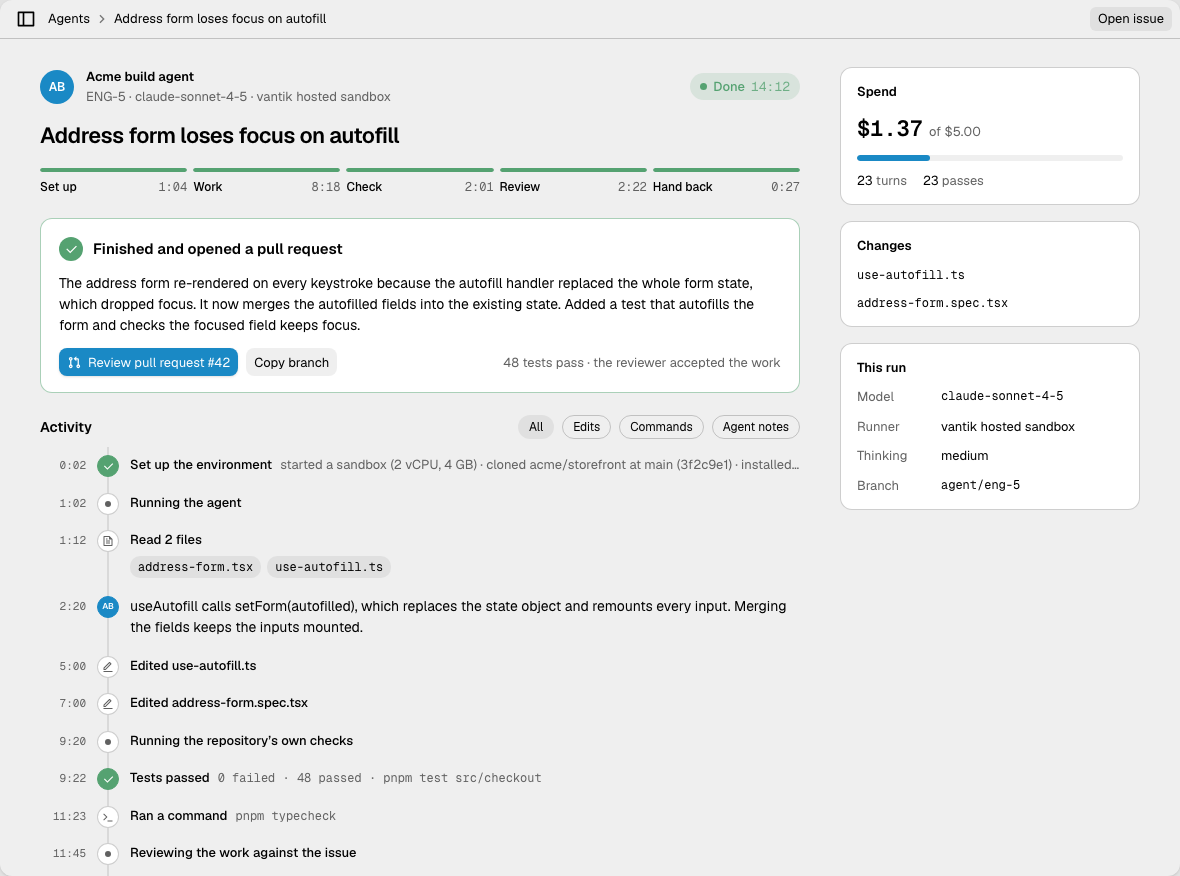
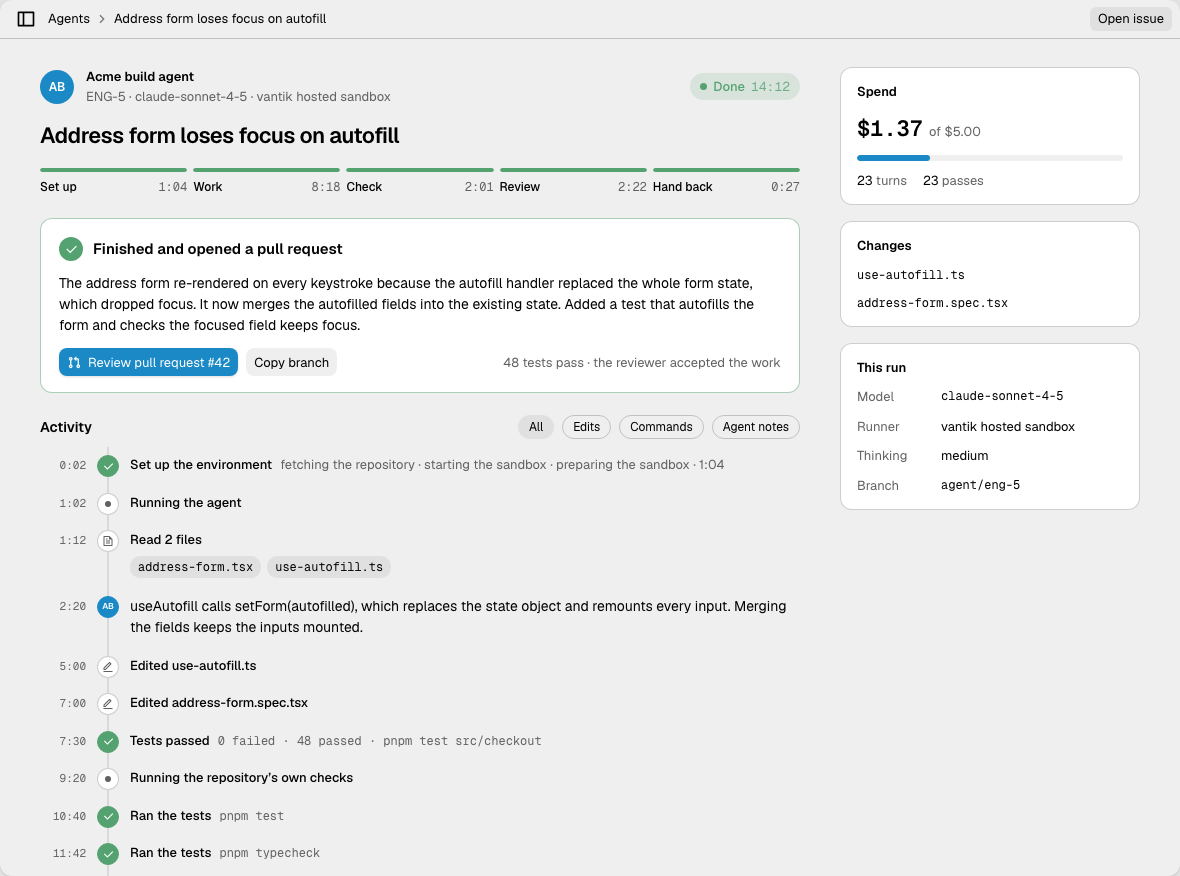
Show agent runs as the executor writes them (ENG-237)
The seeded runs still carried events the hosted executor never writes:
setup lines about vCPUs and installs, check results as start/finish
pairs with test counts and output, a lint check as a plain command, and
a live run with no spend and a model id it would only get on finishing.
The setup lines are now the executor's three notes, each repository
check is one test event with only its result, the live run carries its
metered cost and turns, the unfinished runs have no model id, and the
rejected run records its clean-up event.

The activity table now tells a check Vantik ran ("Ran the tests") from
a test the agent ran, and says a failed check shows no output. Both
pages now say that a hosted run records a branch only when it ends Done
or Needs a human, so on a hosted run Reject is the only clean-up. The
page also states the 40-character minimum and when Runs use appears.

diff --git a/apps/e2e/screenshots/seed-agents.ts b/apps/e2e/screenshots/seed-agents.ts
@@ -12,7 +12,11 @@ import type { Database } from './db';
  * a reader needs to recognise.
  *
  * Every run is one the hosted executor can produce: its failure category, its
- * events and its counts are the ones that executor writes. A finished run
+ * events and its counts are the ones that executor writes. Its own notes and
+ * check results are written as it writes them (one event per check, with no
+ * counts or output); the agent's tool calls as pi-events.ts maps them. The
+ * model id is set only on a run that finished, and a live run carries the
+ * cost and turns its meter has written so far. A finished run
  * carries its turn count in iterationCount too, because the executor writes it
  * there when the run ends, and the Spend card shows that field as passes.
  *
@@ -128,7 +132,13 @@ export async function seedAgents(
   const runningStart = clockAt - 6 * MINUTE - 40_000;
   const runningRunId = await run(
     issues.running,
-    { status: 'RUNNING', startedAt: runningStart, iterationCount: 0 },
+    {
+      status: 'RUNNING',
+      startedAt: runningStart,
+      iterationCount: 0,
+      modelId: null,
+      result: { costUsd: 0.94, turns: 17 },
+    },
     [
       ...setup(),
       [62, 'implement', 'Running the agent'],
@@ -174,7 +184,6 @@ export async function seedAgents(
       [250, 'implement', 'Edit src/payments/webhooks.spec.ts', { kind: 'write', ref: 'w3', target: 'src/payments/webhooks.spec.ts' }],
       [251, 'implement', 'Edit src/payments/webhooks.spec.ts', { ref: 'w3', ok: true, added: 34, removed: 0 }],
       [298, 'verify', 'Running the repository’s own checks'],
-      [300, 'verify', 'pnpm test src/payments', { kind: 'test', ref: 't1', command: 'pnpm test src/payments' }],
     ],
   );
 
@@ -229,11 +238,11 @@ export async function seedAgents(
       [301, 'implement', 'Edit src/checkout/use-autofill.ts', { ref: 'w1', ok: true, added: 9, removed: 7 }],
       [420, 'implement', 'Edit src/checkout/address-form.spec.tsx', { kind: 'write', ref: 'w2', target: 'src/checkout/address-form.spec.tsx' }],
       [421, 'implement', 'Edit src/checkout/address-form.spec.tsx', { ref: 'w2', ok: true, added: 29, removed: 0 }],
+      [450, 'implement', 'bash: pnpm test src/checkout', { kind: 'test', ref: 'a1', command: 'pnpm test src/checkout' }],
+      [528, 'implement', 'Tests passed: 48', { kind: 'test', ref: 'a1', ok: true, passed: 48, failed: 0 }],
       [560, 'verify', 'Running the repository’s own checks'],
-      [562, 'verify', 'pnpm test src/checkout', { kind: 'test', ref: 't1', command: 'pnpm test src/checkout' }],
-      [640, 'verify', 'pnpm test src/checkout', { ref: 't1', ok: true, exit: 0, passed: 48, failed: 0 }],
-      [683, 'verify', 'pnpm typecheck', { kind: 'bash', ref: 'b1', command: 'pnpm typecheck' }],
-      [702, 'verify', 'pnpm typecheck', { ref: 'b1', ok: true, exit: 0 }],
+      [640, 'verify', 'Tests: passed', { kind: 'test', command: 'pnpm test', ok: true, exit: 0 }],
+      [702, 'verify', 'Typecheck: passed', { kind: 'test', command: 'pnpm typecheck', ok: true, exit: 0 }],
       [705, 'review', 'Reviewing the work against the issue'],
       [825, 'review', 'The reviewer accepted the work'],
       [830, 'report', 'Pushing the branch'],
@@ -289,11 +298,16 @@ export async function seedAgents(
       [300, 'implement', 'Created docs/analytics/checkout.md', { kind: 'write', ref: 'w1', target: 'docs/analytics/checkout.md' }],
       [301, 'implement', 'Created docs/analytics/checkout.md', { ref: 'w1', ok: true, added: 96, removed: 0 }],
       [400, 'verify', 'Running the repository’s own checks'],
-      [402, 'verify', 'pnpm lint', { kind: 'bash', ref: 'b1', command: 'pnpm lint' }],
-      [460, 'verify', 'pnpm lint', { ref: 'b1', ok: true, exit: 0 }],
+      [460, 'verify', 'Lint: passed', { kind: 'test', command: 'pnpm lint', ok: true, exit: 0 }],
       [462, 'review', 'Reviewing the work against the issue'],
       [550, 'review', 'The reviewer found 0 thing(s) to fix'],
       [552, 'report', 'Pushing the branch'],
+      [
+        540 + 3 * 60 * 60,
+        'cleanup',
+        'Cleaned up after the run. Closed the pull request. Deleted the branch.',
+        { cleanup: { pullRequest: 'closed', branch: 'deleted' } },
+      ],
     ],
   );
 
@@ -305,6 +319,7 @@ export async function seedAgents(
     {
       status: 'FAILED',
       failure: 'ENVIRONMENT_SETUP_FAILED',
+      modelId: null,
       error:
         'pnpm install --frozen-lockfile\n ERR_PNPM_OUTDATED_LOCKFILE  Cannot install with "frozen-lockfile" because pnpm-lock.yaml is not up to date with package.json',
       startedAt: failedStart,
@@ -312,8 +327,9 @@ export async function seedAgents(
       result: { egressDenied: 0 },
     },
     [
-      [2, 'setup', 'Started a sandbox (2 vCPU, 4 GB)'],
-      [9, 'setup', 'Cloned acme/storefront at main (3f2c9e1)'],
+      [2, 'setup', 'Fetching the repository'],
+      [9, 'setup', 'Starting the sandbox'],
+      [40, 'setup', 'Preparing the sandbox'],
     ],
   );
 
@@ -364,46 +380,21 @@ export async function seedAgents(
       [300, 'implement', 'Created src/catalog/stock-badge.tsx', { kind: 'write', ref: 'w1', target: 'src/catalog/stock-badge.tsx' }],
       [301, 'implement', 'Created src/catalog/stock-badge.tsx', { ref: 'w1', ok: true, added: 41, removed: 0 }],
       [396, 'verify', 'Running the repository’s own checks'],
-      [398, 'verify', 'pnpm test src/catalog', { kind: 'test', ref: 't1', command: 'pnpm test src/catalog' }],
-      [
-        494,
-        'verify',
-        'pnpm test src/catalog',
-        {
-          ref: 't1',
-          ok: false,
-          exit: 1,
-          passed: 48,
-          failed: 3,
-          output:
-            'FAIL src/catalog/stock.spec.ts\n  ✕ hides the badge when stock is unknown\n  ✕ rounds stock above 99 to 99+\n  ✕ shows the badge for stock of 0\n\nTests: 3 failed, 48 passed, 51 total',
-        },
-        'ERROR',
-      ],
+      [494, 'verify', 'Tests: failed', { kind: 'test', command: 'pnpm test', ok: false, exit: 1 }, 'ERROR'],
       [496, 'review', 'Reviewing the work against the issue'],
       [588, 'review', 'The reviewer found 2 thing(s) to fix'],
       [590, 'revise-2', 'Fixing 2 finding(s) from the review'],
+      [700, 'revise-2', 'Edit src/catalog/stock-badge.tsx', { kind: 'write', ref: 'w2', target: 'src/catalog/stock-badge.tsx' }],
+      [701, 'revise-2', 'Edit src/catalog/stock-badge.tsx', { ref: 'w2', ok: true, added: 6, removed: 2 }],
       [830, 'verify-2', 'Running the repository’s own checks'],
+      [923, 'verify-2', 'Tests: failed', { kind: 'test', command: 'pnpm test', ok: false, exit: 1 }, 'ERROR'],
       [925, 'review-2', 'Reviewing the work against the issue'],
       [1013, 'review-2', 'The reviewer found 2 thing(s) to fix'],
       [1015, 'revise-3', 'Fixing 2 finding(s) from the review'],
+      [1120, 'revise-3', 'Edit src/catalog/stock.ts', { kind: 'write', ref: 'w3', target: 'src/catalog/stock.ts' }],
+      [1121, 'revise-3', 'Edit src/catalog/stock.ts', { ref: 'w3', ok: true, added: 17, removed: 10 }],
       [1235, 'verify-3', 'Running the repository’s own checks'],
-      [1237, 'verify-3', 'pnpm test src/catalog', { kind: 'test', ref: 't3', command: 'pnpm test src/catalog' }],
-      [
-        1330,
-        'verify-3',
-        'pnpm test src/catalog',
-        {
-          ref: 't3',
-          ok: false,
-          exit: 1,
-          passed: 49,
-          failed: 2,
-          output:
-            'FAIL src/catalog/stock.spec.ts\n  ✕ hides the badge when stock is unknown\n  ✕ rounds stock above 99 to 99+\n\nTests: 2 failed, 49 passed, 51 total',
-        },
-        'ERROR',
-      ],
+      [1330, 'verify-3', 'Tests: failed', { kind: 'test', command: 'pnpm test', ok: false, exit: 1 }, 'ERROR'],
       [1332, 'review-3', 'Reviewing the work against the issue'],
       [1420, 'review-3', 'The reviewer found 2 thing(s) to fix'],
       [1424, 'report', 'Pushing the branch'],
@@ -419,13 +410,12 @@ export async function seedAgents(
   };
 }
 
-/** The first minute of every run: the sandbox, the clone and the install. */
+/** The first minute of every run, in the notes the hosted executor writes. */
 function setup(): Line[] {
   return [
-    [2, 'setup', 'Started a sandbox (2 vCPU, 4 GB)'],
-    [9, 'setup', 'Cloned acme/storefront at main (3f2c9e1)'],
-    [51, 'setup', 'Installed dependencies with pnpm in 41s'],
-    [60, 'setup', 'Loaded 2 facts from the knowledge bank: Payments'],
+    [2, 'setup', 'Fetching the repository'],
+    [9, 'setup', 'Starting the sandbox'],
+    [40, 'setup', 'Preparing the sandbox'],
   ];
 }
 
